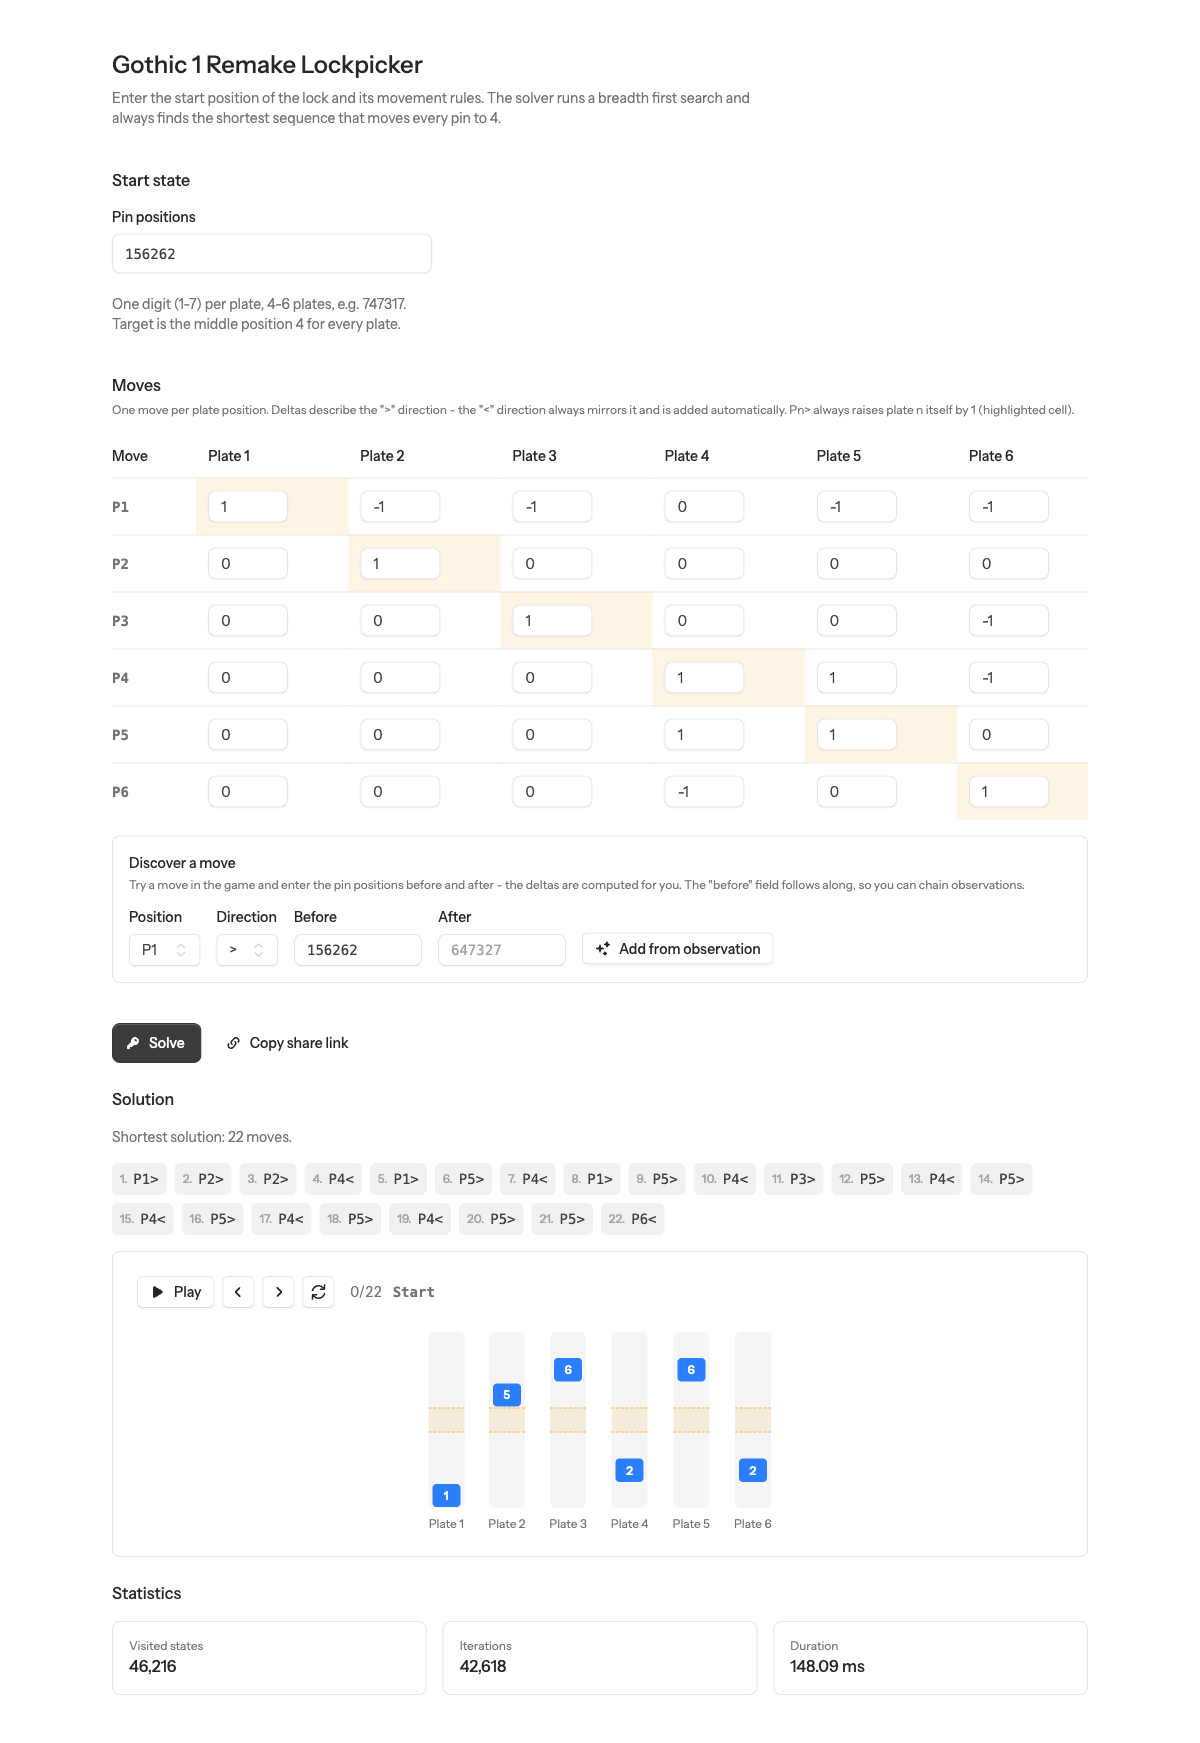
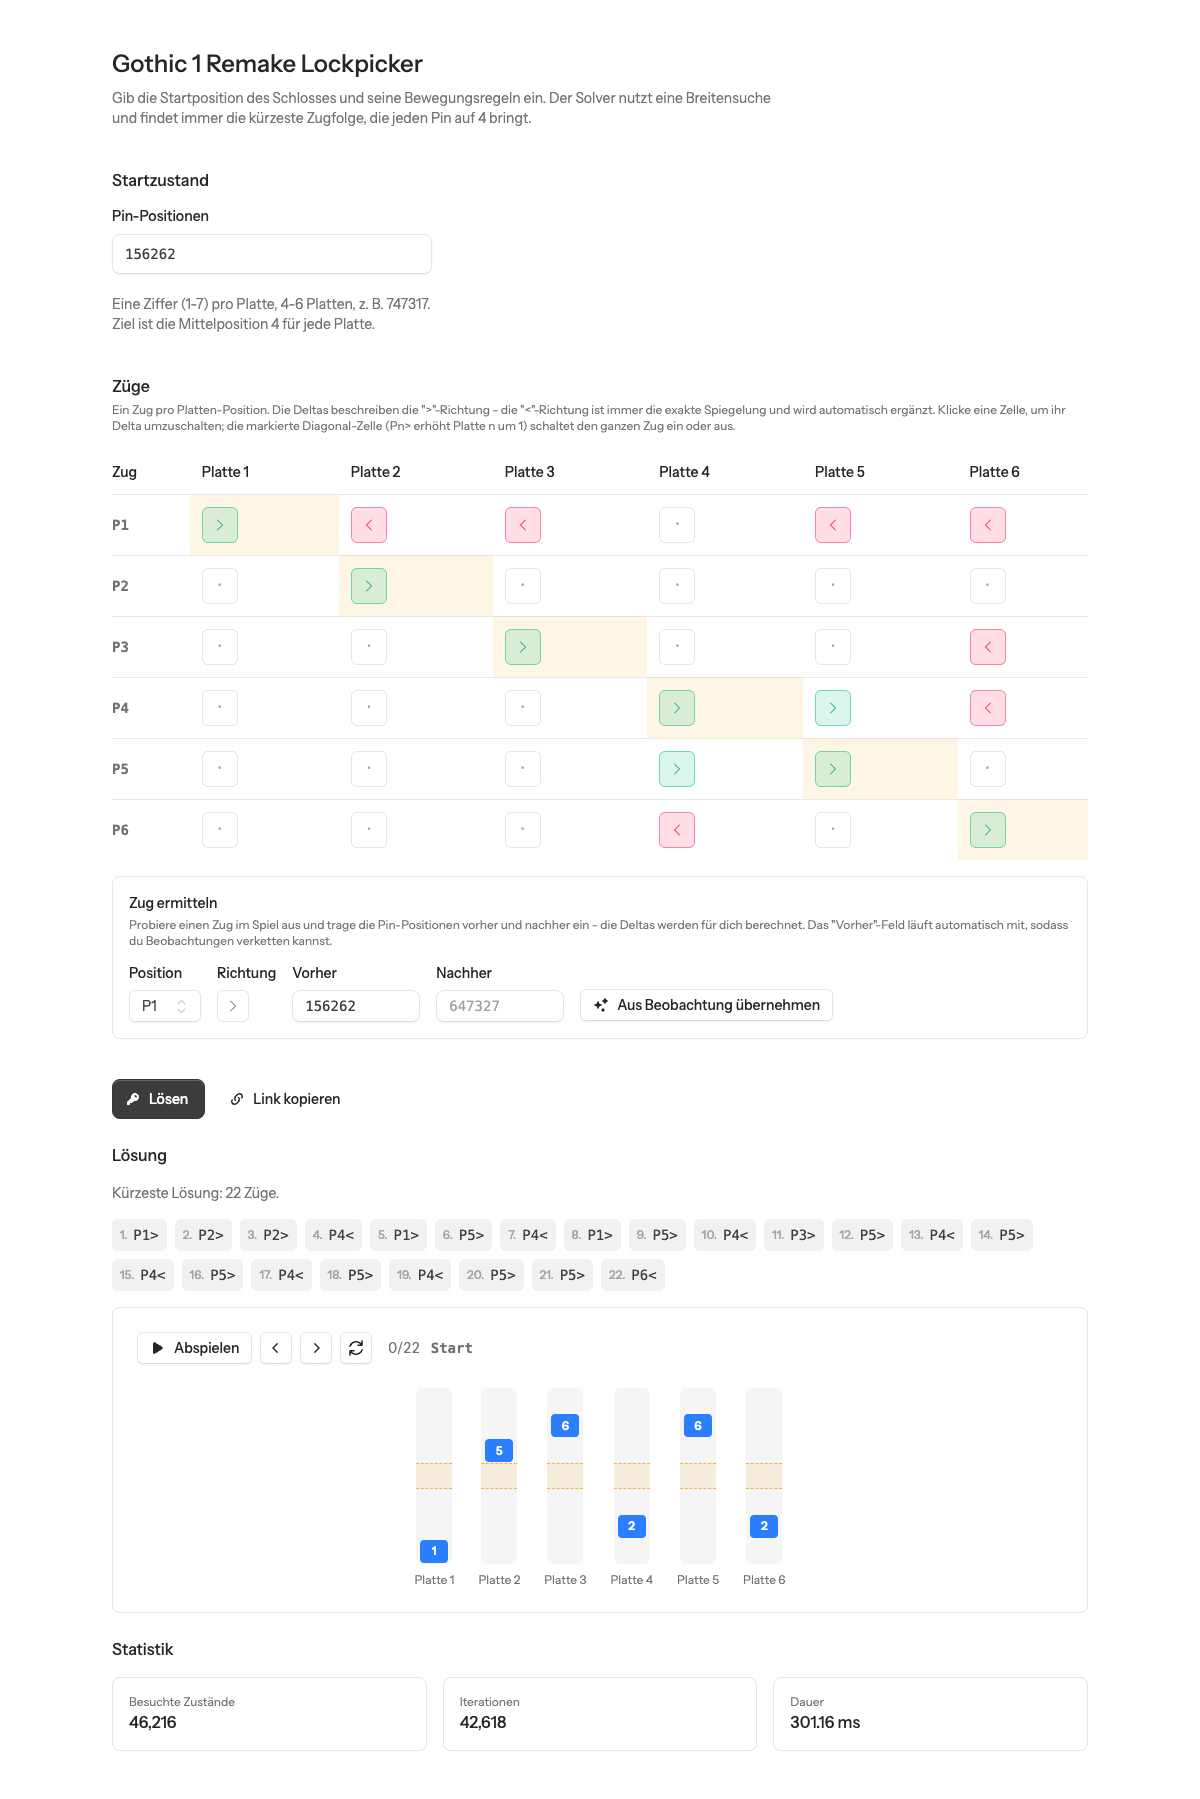
Redesign the moves grid as clickable tri-state delta cells
Since a delta can only be -1, 0 or +1, number inputs are replaced with
buttons that cycle through the three states, shown as left/right chevrons
matching the plates' horizontal movement. The diagonal cell toggles the
whole move on and off, and the discovery direction select becomes the
same style of toggle button.

Claude-Session: https://claude.ai/code/session_01GtSD4knykVZPkZsMxd2kbF

diff --git a/resources/views/pages/⚡lock-picker.blade.php b/resources/views/pages/⚡lock-picker.blade.php
@@ -96,6 +96,45 @@ new #[Layout('layouts::public')] #[Title('Gothic 1 Remake Lockpicker')] class ex
         $this->syncLockCode();
     }
 
+    public function toggleObservationDirection(): void
+    {
+        $this->observationDirection = $this->observationDirection === '>' ? '<' : '>';
+    }
+
+    /**
+     * Cycles a delta cell through 0 -> +1 -> -1 -> 0. The diagonal cell is
+     * special: Pn> always raises plate n itself by 1, so it toggles the
+     * whole move on and off, and touching any other cell activates the move.
+     */
+    public function cycleDelta(int $row, int $pin): void
+    {
+        if (! isset($this->moves[$row][$pin])) {
+            return;
+        }
+
+        $this->resetResult();
+
+        if ($row === $pin) {
+            $wasActive = (int) $this->moves[$row][$row] === 1;
+
+            $this->moves[$row] = array_fill(0, $this->pinCount(), 0);
+
+            if (! $wasActive) {
+                $this->moves[$row][$row] = 1;
+            }
+        } else {
+            $this->moves[$row][$pin] = match ((int) $this->moves[$row][$pin]) {
+                0 => 1,
+                1 => -1,
+                default => 0,
+            };
+
+            $this->moves[$row][$row] = 1;
+        }
+
+        $this->syncLockCode();
+    }
+
     public function discoverMove(): void
     {
         $this->resetResult();
@@ -346,7 +385,7 @@ new #[Layout('layouts::public')] #[Title('Gothic 1 Remake Lockpicker')] class ex
         <div>
             <flux:heading size="lg" level="2">{{ __('Moves') }}</flux:heading>
             <flux:text size="sm" class="mt-1">
-                {{ __('One move per plate position. Deltas describe the ">" direction - the "<" direction always mirrors it and is added automatically. Pn> always raises plate n itself by 1 (highlighted cell).') }}
+                {{ __('One move per plate position. Deltas describe the ">" direction - the "<" direction always mirrors it and is added automatically. Click a cell to cycle its delta; the highlighted diagonal cell (Pn> raises plate n by 1) switches the whole move on or off.') }}
             </flux:text>
         </div>
 
@@ -367,21 +406,43 @@ new #[Layout('layouts::public')] #[Title('Gothic 1 Remake Lockpicker')] class ex
 
                 <flux:table.rows>
                     @foreach ($moves as $index => $delta)
+                        @php
+                            $rowActive = (int) ($delta[$index] ?? 0) === 1;
+                        @endphp
+
                         <flux:table.row wire:key="move-{{ $index }}">
                             <flux:table.cell>
-                                <span class="font-mono font-semibold">P{{ $index + 1 }}</span>
+                                <span class="font-mono font-semibold {{ $rowActive ? '' : 'opacity-40' }}">P{{ $index + 1 }}</span>
                             </flux:table.cell>
 
                             @foreach ($delta as $pin => $value)
-                                <flux:table.cell wire:key="move-{{ $index }}-pin-{{ $pin }}" class="{{ $index === $pin ? 'bg-amber-500/10' : '' }}">
-                                    <flux:input
-                                        type="number"
-                                        min="-1"
-                                        max="1"
-                                        wire:model.change="moves.{{ $index }}.{{ $pin }}"
-                                        size="sm"
-                                        class="max-w-20"
-                                    />
+                                @php
+                                    $value = (int) $value;
+                                    $isDiagonal = $index === $pin;
+                                    $cellClasses = match (true) {
+                                        $value === 1 => 'border-emerald-500/50 bg-emerald-500/15 text-emerald-600 dark:text-emerald-400',
+                                        $value === -1 => 'border-rose-500/50 bg-rose-500/15 text-rose-600 dark:text-rose-400',
+                                        default => 'border-zinc-200 text-zinc-400 dark:border-zinc-600 dark:text-zinc-500',
+                                    };
+                                @endphp
+
+                                <flux:table.cell wire:key="move-{{ $index }}-pin-{{ $pin }}" class="{{ $isDiagonal ? 'bg-amber-500/10' : '' }}">
+                                    <button
+                                        type="button"
+                                        wire:click="cycleDelta({{ $index }}, {{ $pin }})"
+                                        class="flex size-9 cursor-pointer items-center justify-center rounded-md border transition-colors hover:border-zinc-400 dark:hover:border-zinc-400 {{ $cellClasses }} {{ $rowActive || $isDiagonal ? '' : 'opacity-50' }}"
+                                        aria-label="{{ $isDiagonal
+                                            ? __('Toggle move :move', ['move' => 'P'.($index + 1).'>'])
+                                            : __('Delta of move :move on plate :plate', ['move' => 'P'.($index + 1).'>', 'plate' => $pin + 1]) }}"
+                                    >
+                                        @if ($value === 1)
+                                            <flux:icon.chevron-right class="size-4" />
+                                        @elseif ($value === -1)
+                                            <flux:icon.chevron-left class="size-4" />
+                                        @else
+                                            <span class="text-lg leading-none">·</span>
+                                        @endif
+                                    </button>
                                 </flux:table.cell>
                             @endforeach
                         </flux:table.row>
@@ -410,10 +471,18 @@ new #[Layout('layouts::public')] #[Title('Gothic 1 Remake Lockpicker')] class ex
 
                     <flux:field>
                         <flux:label>{{ __('Direction') }}</flux:label>
-                        <flux:select wire:model="observationDirection" size="sm" class="max-w-20">
-                            <flux:select.option value=">">&gt;</flux:select.option>
-                            <flux:select.option value="<">&lt;</flux:select.option>
-                        </flux:select>
+                        <button
+                            type="button"
+                            wire:click="toggleObservationDirection"
+                            class="flex size-8 cursor-pointer items-center justify-center rounded-md border border-zinc-200 text-zinc-600 transition-colors hover:border-zinc-400 dark:border-zinc-600 dark:text-zinc-300 dark:hover:border-zinc-400"
+                            aria-label="{{ __('Toggle direction') }}"
+                        >
+                            @if ($observationDirection === '>')
+                                <flux:icon.chevron-right class="size-4" />
+                            @else
+                                <flux:icon.chevron-left class="size-4" />
+                            @endif
+                        </button>
                         <flux:error name="observationDirection" />
                     </flux:field>
 

diff --git a/tests/Feature/LockPickerTest.php b/tests/Feature/LockPickerTest.php
@@ -141,6 +141,48 @@ test('it resizes the move rows when the plate count changes', function () {
         ->assertSet('observationBefore', '747317');
 });
 
+test('it cycles a delta cell through 0, +1 and -1', function () {
+    Livewire::test('pages::lock-picker')
+        ->set('startPins', '4444')
+        ->call('cycleDelta', 0, 1)
+        // Touching a cell activates the move: the diagonal jumps to +1.
+        ->assertSet('moves.0', [1, 1, 0, 0])
+        ->call('cycleDelta', 0, 1)
+        ->assertSet('moves.0', [1, -1, 0, 0])
+        ->call('cycleDelta', 0, 1)
+        ->assertSet('moves.0', [1, 0, 0, 0]);
+});
+
+test('the diagonal cell toggles the whole move on and off', function () {
+    Livewire::test('pages::lock-picker')
+        ->set('startPins', '4444')
+        ->call('cycleDelta', 1, 1)
+        ->assertSet('moves.1', [0, 1, 0, 0])
+        ->call('cycleDelta', 1, 0)
+        ->assertSet('moves.1', [1, 1, 0, 0])
+        // Toggling off clears the whole row.
+        ->call('cycleDelta', 1, 1)
+        ->assertSet('moves.1', [0, 0, 0, 0]);
+});
+
+test('it ignores delta cycling outside the grid', function () {
+    Livewire::test('pages::lock-picker')
+        ->set('startPins', '4444')
+        ->call('cycleDelta', 7, 0)
+        ->call('cycleDelta', 0, 7)
+        ->assertSet('moves.0', [0, 0, 0, 0]);
+});
+
+test('it toggles the observation direction', function () {
+    Livewire::test('pages::lock-picker')
+        ->set('startPins', '4444')
+        ->assertSet('observationDirection', '>')
+        ->call('toggleObservationDirection')
+        ->assertSet('observationDirection', '<')
+        ->call('toggleObservationDirection')
+        ->assertSet('observationDirection', '>');
+});
+
 test('it discovers a move from an observation', function () {
     Livewire::test('pages::lock-picker')
         ->set('startPins', '747317')

diff --git a/README.md b/README.md
@@ -11,6 +11,8 @@ of moves that opens the lock.
 
 ![Screenshot](.github/art/screenshot.png)
 
+*The UI follows your browser language — English and German are included.*
+
 ## The game model
 
 - A lock has **4–6 plates**. Every plate sits in one of **7 positions** (1–7).